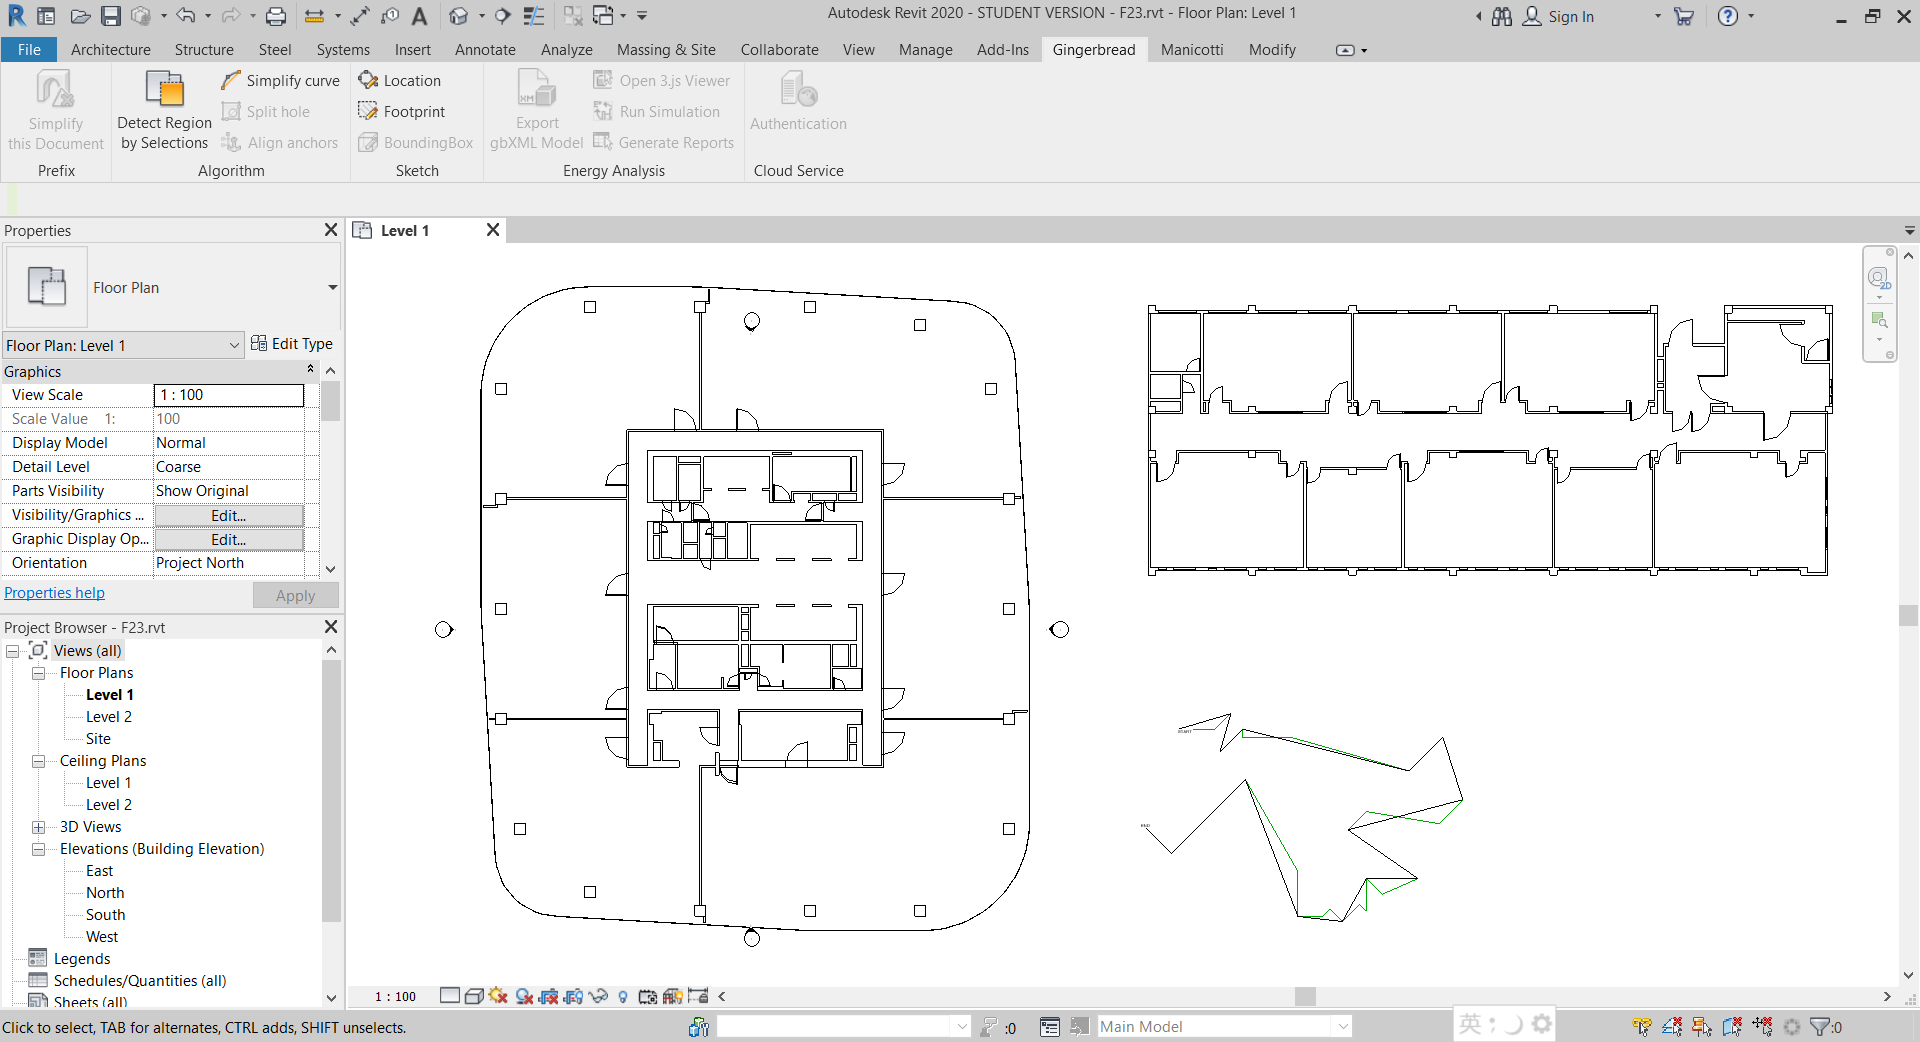
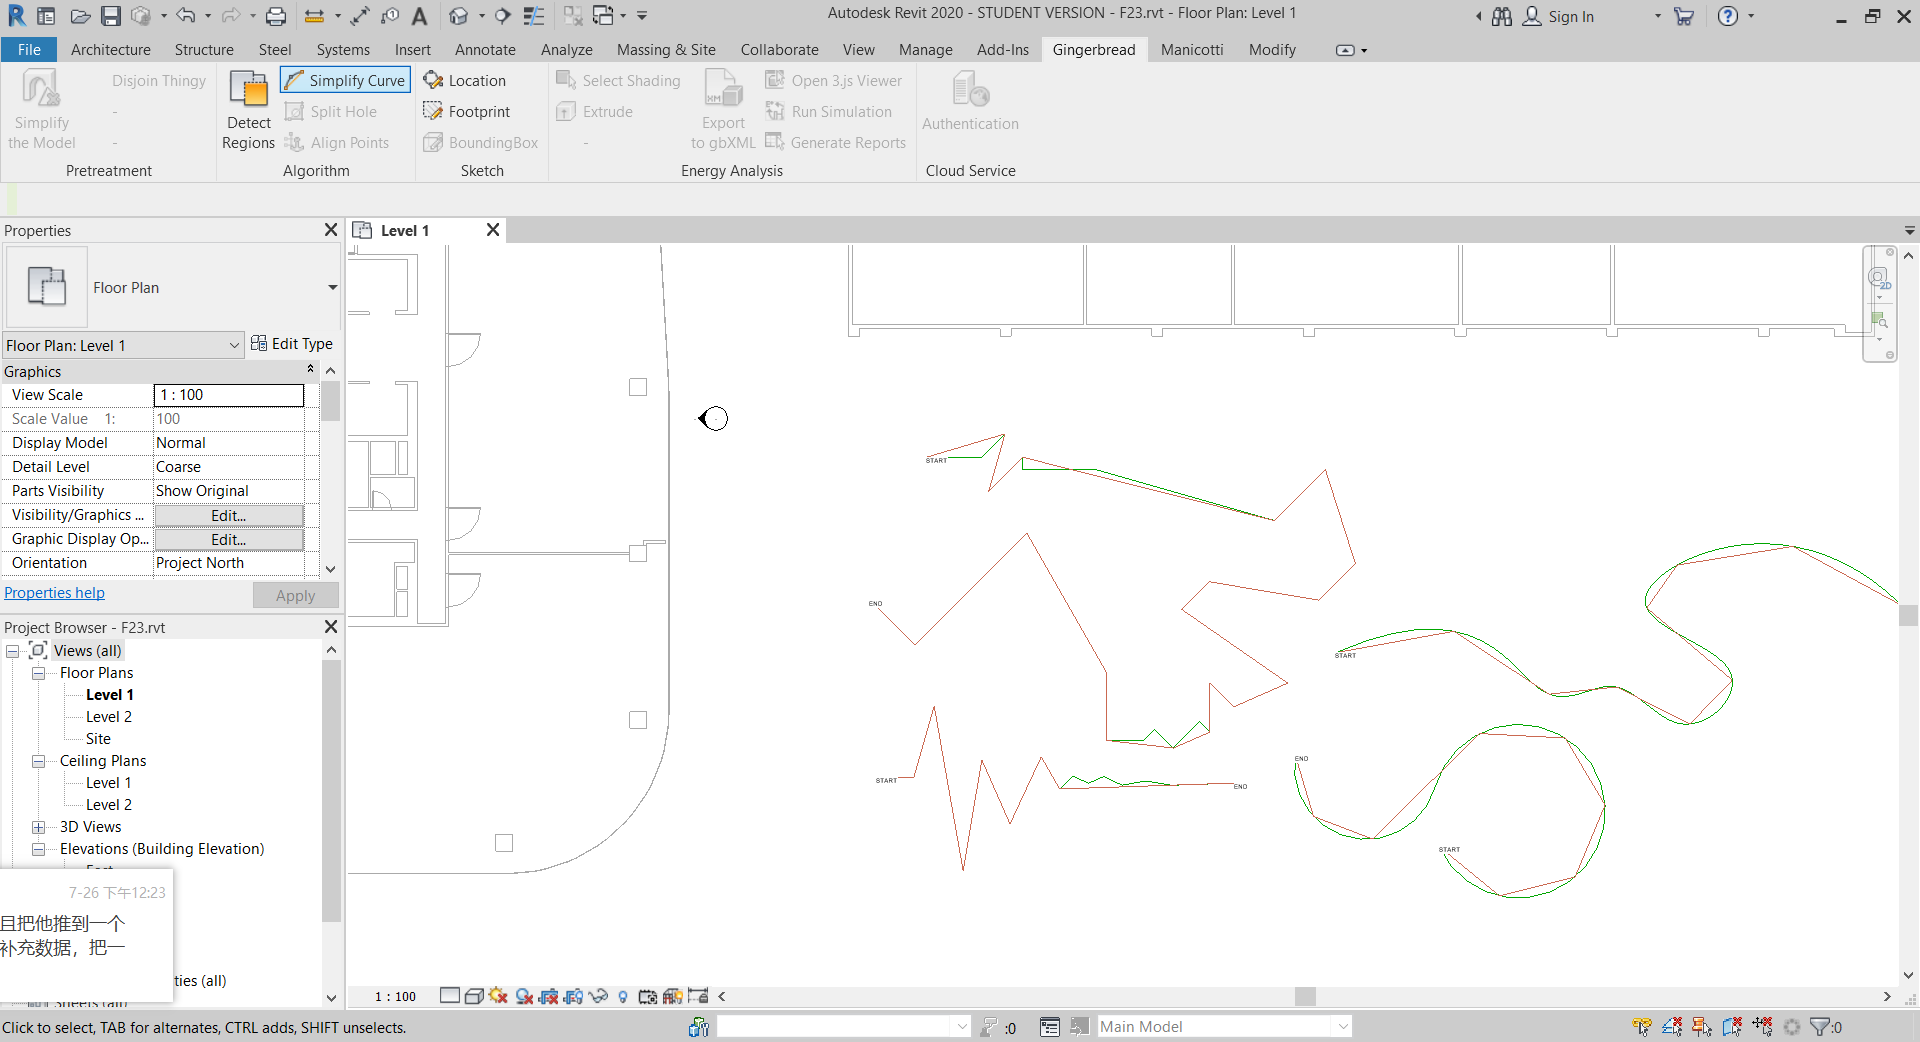
+  Curve MaxLengthReduction()
+ MaxLengthReduction()
Control the reduction of a curve by number of points while keeping its maximum length

diff --git a/Gingerbread/Core/SimplifyCurve.cs b/Gingerbread/Core/SimplifyCurve.cs
@@ -13,6 +13,20 @@ namespace Gingerbread.Core
     class SimplifyCurve
     {
         /// <summary>
+        /// Coonvert curve to polyline by curvature
+        /// </summary>
+        /// <param name="crv"></param>
+        /// <returns></returns>
+        public static PolyLine TessellateCurve(Curve crv)
+        {
+            List<XYZ> pts = new List<XYZ>(crv.Tessellate());
+            return PolyLine.Create(pts);
+        }
+
+
+        // -------------------- Douglas Peucker Reduction -------------------------
+
+        /// <summary>
         /// Uses the Douglas Peucker algorithm to reduce the number of pts.
         /// </summary>
         /// <param name="pts">The pts.</param>
@@ -107,7 +121,7 @@ namespace Gingerbread.Core
         }
 
 
-        // -------------------- alternatives -------------------------------
+        // -------------------- Curve Adaptive Division -------------------------------
 
         /// <summary>
         /// Reduce a curve to polyline adaptively. Not an ideal method.
@@ -174,15 +188,171 @@ namespace Gingerbread.Core
             return PolyLine.Create(ptList);
         }
 
+
+        // -------------------- Curve Adaptive Division -------------------------------
+        // by courtesy of Radovan Grmusa
+        // https://discourse.mcneel.com/t/best-polyline-from-curve/80417/9
+
         /// <summary>
-        /// Coonvert curve to polyline by curvature
+        /// Reduce the number of vertices while trying to keep the original length
         /// </summary>
         /// <param name="crv"></param>
-        /// <returns></returns>
-        public static PolyLine TessellateCurve(Curve crv)
+        /// <param name="noOfPoints"></param>
+        public static PolyLine MaxLengthReduction(Curve crv, int noOfPoints)
         {
-            List<XYZ> pts = new List<XYZ>(crv.Tessellate());
-            return PolyLine.Create(pts);
+            int noOfPointsEnd = noOfPoints * 4 + 1;
+            List<XYZ> points = new List<XYZ>();
+            PolyLine plMax = null;
+
+            for (int i = noOfPoints + 1; i < noOfPointsEnd; i++)
+            {
+                int noOfTestPoints = i;
+                var crvPrms = Enumerable.Range(0, noOfTestPoints)
+                    .Select(x => (double) x / (noOfTestPoints - 1)).ToList();
+                //Debug.Print("### crvPrms ###" + Util.ListString(crvPrms));
+                var crvPoints = crvPrms.Select(p => crv.Evaluate(p, true)).ToList();
+                //Debug.Print("### crvPoints ###" + Util.ListString(crvPoints));
+
+
+                List<double> FirstNeighborLengths = new List<double>();
+                List<double> SecondNeighborLengths = new List<double>();
+
+                double[] LengthDifferenceA = new double[noOfTestPoints - 2];
+                var LengthDifferenceIds = Enumerable.Range(0, noOfTestPoints - 2).ToArray();
+
+                FirstNeighborLengths.Add(crvPoints[0].DistanceTo(crvPoints[1]));
+                for (int j = 1; j < noOfTestPoints - 1; j++)
+                {
+                    FirstNeighborLengths.Add(crvPoints[j].DistanceTo(crvPoints[j + 1]));
+                    SecondNeighborLengths.Add(crvPoints[j - 1].DistanceTo(crvPoints[j + 1]));
+                    LengthDifferenceA[j - 1] = (FirstNeighborLengths[j - 1] + FirstNeighborLengths[j] - SecondNeighborLengths[j - 1]);
+                }
+                double[] LD = new double[noOfTestPoints - 2];
+                LengthDifferenceA.CopyTo(LD, 0);
+
+                var LengthDifferences = LengthDifferenceA.ToList();
+                Array.Sort(LengthDifferenceA, LengthDifferenceIds);
+
+                List<double> LengthDifferenceSorted = LengthDifferenceA.ToList();
+                List<int> LengthDifferenceSortedIds = LengthDifferenceIds.ToList();
+
+                List<int> LengthDifferenceId_PosIn_LengthDifferenceSortedIds = Enumerable.Range(0, noOfTestPoints - 2).ToList();
+                for (int j = 0; j < noOfTestPoints - 2; j++)
+                {
+                    LengthDifferenceId_PosIn_LengthDifferenceSortedIds[LengthDifferenceIds[j]] = j;
+                }
+
+                while (noOfPoints < crvPoints.Count)
+                {
+                    RemoveMinDifferenceSegment(crvPoints, FirstNeighborLengths, SecondNeighborLengths, LengthDifferences,
+                        LengthDifferenceSorted, LengthDifferenceSortedIds, LengthDifferenceId_PosIn_LengthDifferenceSortedIds);
+                }
+                //Debug.Print("### crvPoints after ###" + Util.ListString(crvPoints));
+                PolyLine ply = PolyLine.Create(crvPoints);
+                if (Basic.PolyLineLength(ply) > Basic.PolyLineLength(plMax))
+                {
+                    plMax = ply;
+                    points = crvPoints;
+                }
+            }
+
+            return plMax;
         }
+
+        private static void RemoveMinDifferenceSegment(List<XYZ> crvPoints, List<double> FirstNeighborLengths, List<double> SecondNeighborLengths,
+    List<double> LengthDifference, List<double> LengthDifferenceSorted, List<int> LegnthDiferncesSortedIds,
+    List<int> LengthDifferenceId_PosIn_LengthDifferenceSortedIds)
+        {
+            int i = LegnthDiferncesSortedIds.First();
+            // renmove point at i+1 position
+            crvPoints.RemoveAt(i + 1);
+            FirstNeighborLengths.RemoveAt(i + 1);
+            FirstNeighborLengths[i] = crvPoints[i].DistanceTo(crvPoints[i + 1]);
+
+            SecondNeighborLengths.RemoveAt(i);
+            RemoveAtId(i, LengthDifference, LengthDifferenceSorted, LegnthDiferncesSortedIds, LengthDifferenceId_PosIn_LengthDifferenceSortedIds);
+
+            if (i < SecondNeighborLengths.Count)
+            {
+                SecondNeighborLengths[i] = crvPoints[i].DistanceTo(crvPoints[i + 2]);
+                RemoveAtId(i, LengthDifference, LengthDifferenceSorted, LegnthDiferncesSortedIds, LengthDifferenceId_PosIn_LengthDifferenceSortedIds);
+                var newLengthdifference = (FirstNeighborLengths[i] + FirstNeighborLengths[i + 1] - SecondNeighborLengths[i]);
+                InsertAtId(newLengthdifference, i, LengthDifference, LengthDifferenceSorted, LegnthDiferncesSortedIds, LengthDifferenceId_PosIn_LengthDifferenceSortedIds);
+            }
+
+            if (i > 0)
+            {
+                SecondNeighborLengths[i - 1] = crvPoints[i - 1].DistanceTo(crvPoints[i + 1]);
+                RemoveAtId(i - 1, LengthDifference, LengthDifferenceSorted, LegnthDiferncesSortedIds, LengthDifferenceId_PosIn_LengthDifferenceSortedIds);
+                var newLengthdifference = (FirstNeighborLengths[i - 1] + FirstNeighborLengths[i] - SecondNeighborLengths[i - 1]);
+                InsertAtId(newLengthdifference, i - 1, LengthDifference, LengthDifferenceSorted, LegnthDiferncesSortedIds, LengthDifferenceId_PosIn_LengthDifferenceSortedIds);
+            }
+        }
+
+        private static void InsertAtId(double newElement, int id, List<double> nums, List<double> ordNums, List<int> ordNumsIds, List<int> pos_numsID_In_ordNumsIds)
+        {
+            if (id < 0 || id > (nums.Count)) return;
+            var posInOrderedId = BinarySearchLargestLT(ordNums, newElement) + 1;
+            //increase +1 all indices for indice>=id
+            for (int i = id; i < pos_numsID_In_ordNumsIds.Count; i++)
+            {
+                ordNumsIds[pos_numsID_In_ordNumsIds[i]]++;
+            }
+
+            nums.Insert(id, newElement);
+            ordNums.Insert(posInOrderedId, newElement);
+            ordNumsIds.Insert(posInOrderedId, id);
+
+            pos_numsID_In_ordNumsIds.Insert(id, posInOrderedId);
+
+            for (int i = posInOrderedId; i < ordNumsIds.Count; i++)
+            {
+                pos_numsID_In_ordNumsIds[ordNumsIds[i]] = i;
+            }
+        }
+
+        private static void RemoveAtId(int id, List<double> nums, List<double> ordNums, List<int> ordNumsIds, List<int> pos_numsID_In_ordNumsIds)
+        {
+            if (id < 0 || id > (nums.Count - 1))
+            {
+                return;
+            }
+            int posInOrderedId = pos_numsID_In_ordNumsIds[id];
+            for (int i = id + 1; i < pos_numsID_In_ordNumsIds.Count; i++)
+            {
+                ordNumsIds[pos_numsID_In_ordNumsIds[i]]--;
+            }
+
+            nums.RemoveAt(id);
+            pos_numsID_In_ordNumsIds.RemoveAt(id);
+            ordNums.RemoveAt(posInOrderedId);
+            ordNumsIds.RemoveAt(posInOrderedId);
+
+            for (int i = posInOrderedId; i < ordNumsIds.Count; i++)
+            {
+                pos_numsID_In_ordNumsIds[ordNumsIds[i]] = i;
+            }
+        }
+        static int BinarySearchLargestLT(List<double> arr, double val)
+        {
+            int low = 0, high = arr.Count - 1, mid;
+            int indexLargestLT = -1;
+
+            while (low <= high)
+            {
+                mid = (low + high) / 2;
+                if (arr[mid] >= val)
+                {
+                    high = mid - 1;
+                }
+                else if (arr[mid] < val)
+                {
+                    low = mid + 1;
+                    indexLargestLT = mid;
+                }
+            }
+            return indexLargestLT;
+        }
+
     }
 }

diff --git a/Gingerbread/CmdCoreSimplifyCurve.cs b/Gingerbread/CmdCoreSimplifyCurve.cs
@@ -38,23 +38,23 @@ namespace Gingerbread
                         ModelLine ml = e as ModelLine;
                         segments.Add(ml.GeometryCurve as Line);
                     }
-                    else if (e is DetailLine)
-                    {
-                        DetailLine dl = e as DetailLine;
-                        segments.Add(dl.GeometryCurve as Line);
-                    }
+                    //else if (e is DetailLine)
+                    //{
+                    //    DetailLine dl = e as DetailLine;
+                    //    segments.Add(dl.GeometryCurve as Line);
+                    //}
                     else if (e is ModelCurve)
                     {
                         ModelCurve mc = e as ModelCurve;
                         segments.AddRange(Core.Basic.TessellateCurve(mc.GeometryCurve));
                         //crvs.Add(mc.GeometryCurve);
                     }
-                    else if (e is DetailCurve)
-                    {
-                        DetailCurve dc = e as DetailCurve;
-                        segments.AddRange(Core.Basic.TessellateCurve(dc.GeometryCurve));
-                        //crvs.Add(dc.GeometryCurve);
-                    }
+                    //else if (e is DetailCurve)
+                    //{
+                    //    DetailCurve dc = e as DetailCurve;
+                    //    segments.AddRange(Core.Basic.TessellateCurve(dc.GeometryCurve));
+                    //    //crvs.Add(dc.GeometryCurve);
+                    //}
                 }
                 // Here merging shattered lines to polylines is time-consuming
                 // This is for the simplification of polyline boudnaries while controlingn the number of vertices
@@ -87,9 +87,28 @@ namespace Gingerbread
                 }
                 
             }
+            // If there is no pre-selection,
+            // ask the user to pick one element with Wall type
             else
             {
-                return Result.Cancelled;
+                Element e = null;
+                try
+                {
+                    Reference r = uidoc.Selection.PickObject(ObjectType.Element, new UtilElementsOfClassSelectionFilter<ModelCurve>());
+                    e = doc.GetElement(r);
+                }
+                catch
+                {
+                    return Result.Cancelled;
+                }
+                ModelCurve mc = e as ModelCurve;
+                PolyLine simplePly = Core.SimplifyCurve.MaxLengthReduction(mc.GeometryCurve, 10);
+                using (Transaction tx = new Transaction(doc, "Draw simplified polyline"))
+                {
+                    tx.Start();
+                    Util.DrawPolyLine(doc, simplePly, false);
+                    tx.Commit();
+                }
             }
 
             return Result.Succeeded;

diff --git a/Gingerbread/Util.cs b/Gingerbread/Util.cs
@@ -672,7 +672,7 @@ namespace Gingerbread
         }
 
 
-        public static string JoinListString(List<bool> list)
+        public static string ListString(List<bool> list)
         {
             string fusion = "";
             for (int index = 0; index < list.Count(); index++)
@@ -682,12 +682,32 @@ namespace Gingerbread
             return fusion;
         }
 
-        public static string JoinListString(List<int> list)
+        public static string ListString(List<int> list)
         {
             string fusion = "";
             for (int index = 0; index < list.Count(); index++)
             {
                 fusion = fusion + list[index].ToString() + " ";
+            }
+            return fusion;
+        }
+
+        public static string ListString(List<double> list)
+        {
+            string fusion = "";
+            for (int index = 0; index < list.Count(); index++)
+            {
+                fusion = fusion + list[index].ToString() + " ";
+            }
+            return fusion;
+        }
+
+        public static string ListString(List<XYZ> list)
+        {
+            string fusion = "";
+            for (int index = 0; index < list.Count(); index++)
+            {
+                fusion = fusion + PointString(list[index]) + " ";
             }
             return fusion;
         }

diff --git a/Gingerbread/Core/DetectRegion.cs b/Gingerbread/Core/DetectRegion.cs
@@ -470,7 +470,7 @@ namespace Gingerbread.Core
 
             Debug.Print("Elements inside HCI are " + HCI.Count.ToString());
             Debug.Print("Elements inside HCN are " + HCN.Count.ToString());
-            Debug.Print("Elements in HCN: " + Util.JoinListString(HCN));
+            Debug.Print("Elements in HCN: " + Util.ListString(HCN));
 
             // Sequence half-curves into faces by running along "next" half-curves in order until the starting half-curve is returned to
             List<int> FaceEdges = new List<int>();

diff --git a/Gingerbread/Core/Basic.cs b/Gingerbread/Core/Basic.cs
@@ -319,6 +319,18 @@ namespace Gingerbread.Core
 
         #region Curve
 
+        public static double PolyLineLength(PolyLine ply)
+        {
+            if (ply == null) return 0;
+            double length = 0;
+            List<XYZ> pts = new List<XYZ>(ply.GetCoordinates());
+            for (int i = 0; i < pts.Count - 2; i++)
+            {
+                length += pts[i].DistanceTo(pts[i + 1]);
+            }
+            return length;
+        }
+
 
         /// <summary>
         /// Convert curve to shattered lines.
